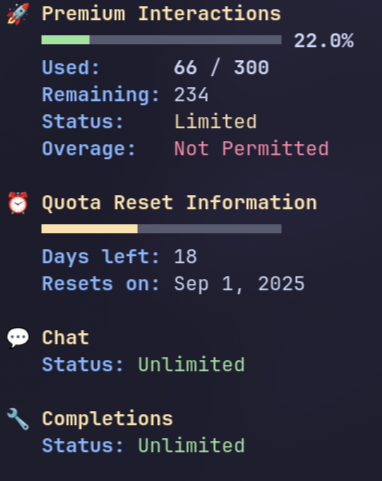
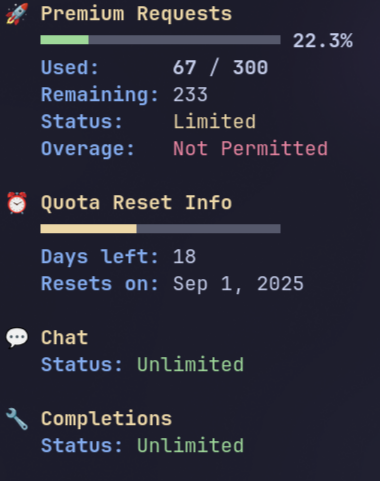
rename some headers

diff --git a/display.go b/display.go
@@ -48,7 +48,7 @@ func displayPremiumInteractions(premium *struct {
 	OveragePermitted bool    `json:"overage_permitted"`
 },
 ) {
-	fmt.Println(bold + yellow + "🚀 Premium Interactions" + reset)
+	fmt.Println(bold + yellow + "🚀 Premium Requests" + reset)
 
 	used, usagePercent := calculateUsage(premium.Entitlement, premium.Remaining)
 
@@ -129,7 +129,7 @@ func displayQuotaReset(resetDate string) {
 		return
 	}
 
-	fmt.Println(bold + yellow + "⏰ Quota Reset Information" + reset)
+	fmt.Println(bold + yellow + "⏰ Quota Reset Info" + reset)
 
 	if t, err := time.Parse("2006-01-02", resetDate); err == nil {
 		resetDate = t.Format("Jan 2, 2006")
